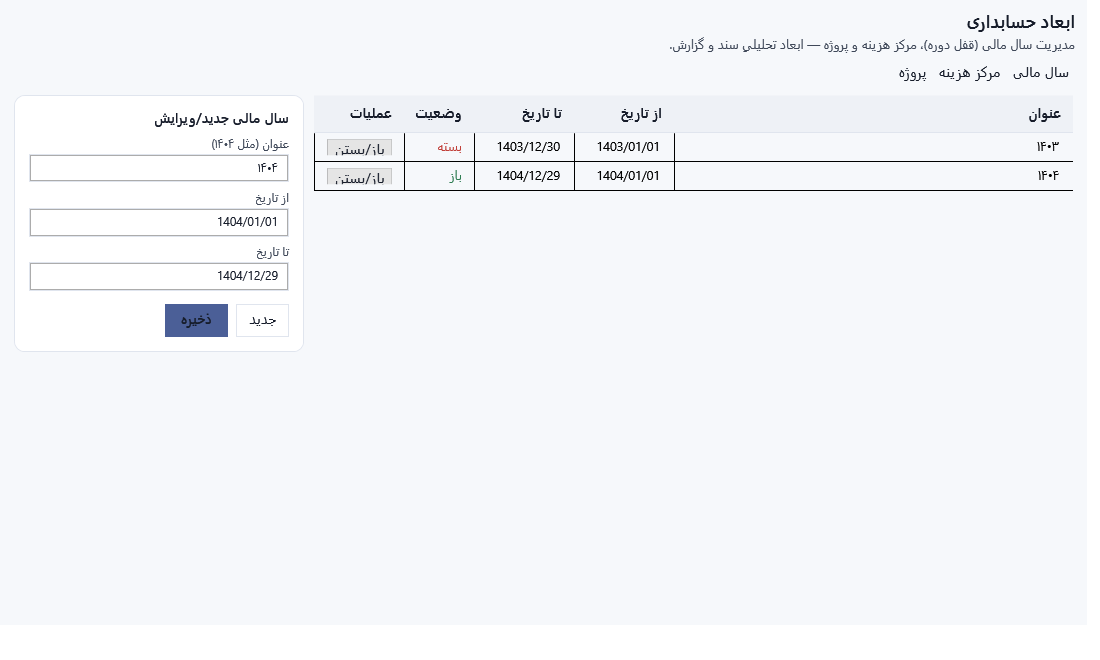
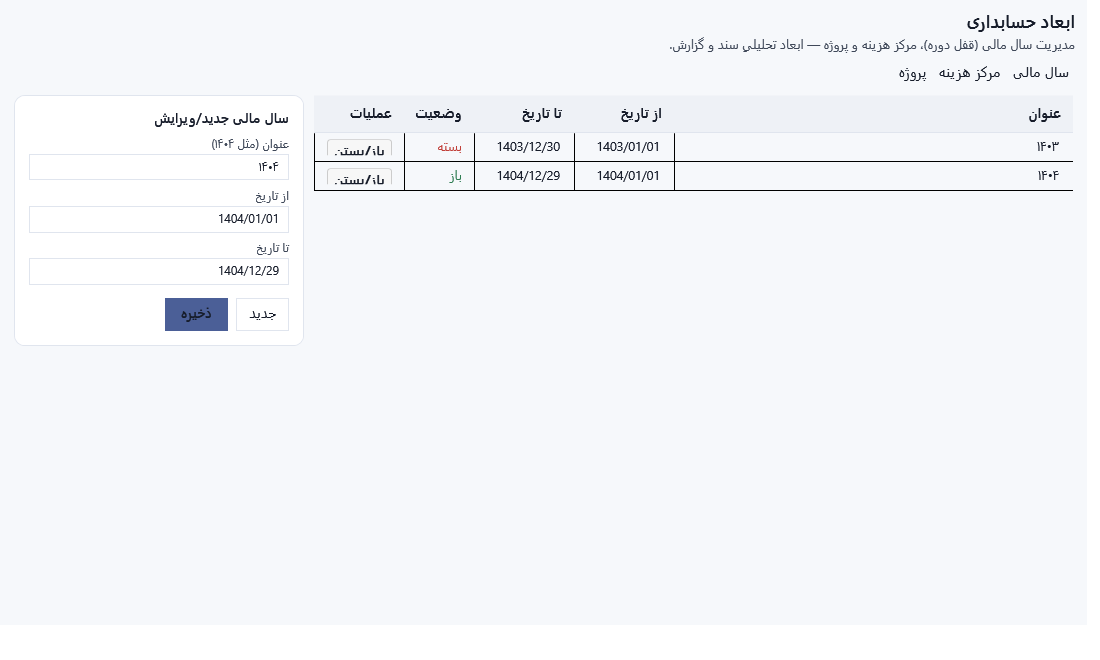
@ style(wpf): استایلِ ضمنیِ DataGrid (ظاهر دیزاینسیستم برای همهٔ گریدها)
پس از حذف Telerik، گریدهای تبدیلشده (DataGrid بیاستایل) ظاهرِ پیشفرضِ زشت
داشتند. افزودن `<Style TargetType="DataGrid" BasedOn="ErpDataGrid"/>` ضمنی در
ErpDesignSystem.xaml → همهٔ گریدهای بیاستایل (لِین C1 و C2) خودکار خطکشی/زبرا/
هدر خاکستری/ردیف ۳۰px میگیرند؛ گریدهای دارای Styleِ صریح override میشوند.
رندر تأییدشده (screenshot/inventory_report.png). build سبز، ۱۹۵ تست سبز.

@

diff --git a/src/SamaHesab.WPF/Assets/Themes/ErpDesignSystem.xaml b/src/SamaHesab.WPF/Assets/Themes/ErpDesignSystem.xaml
@@ -274,6 +274,10 @@
         <Setter Property="RowStyle" Value="{StaticResource ErpRow}"/>
     </Style>
 
+    <!-- استایلِ ضمنیِ همهٔ DataGridها (پس از حذف Telerik): گریدهای بیاستایل هم
+         ظاهرِ دیزاینسیستم (خطکشی/زبرا/هدر/۳۰px) میگیرند. گریدهای دارای Styleِ صریح override میشوند. -->
+    <Style TargetType="DataGrid" BasedOn="{StaticResource ErpDataGrid}"/>
+
     <!-- ============================================================
          نوار جمع/تراز (sumbar): سبز=تراز، قرمز=نامتوازن
          ============================================================ -->
